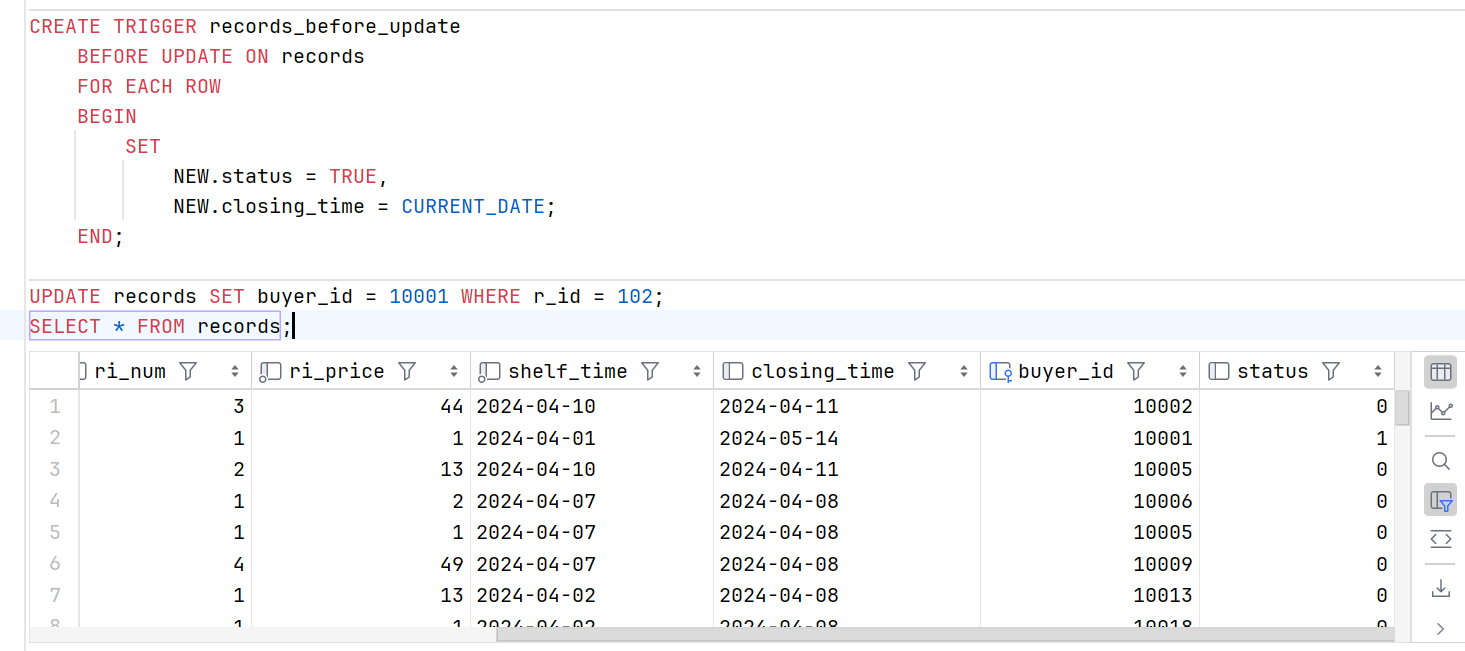
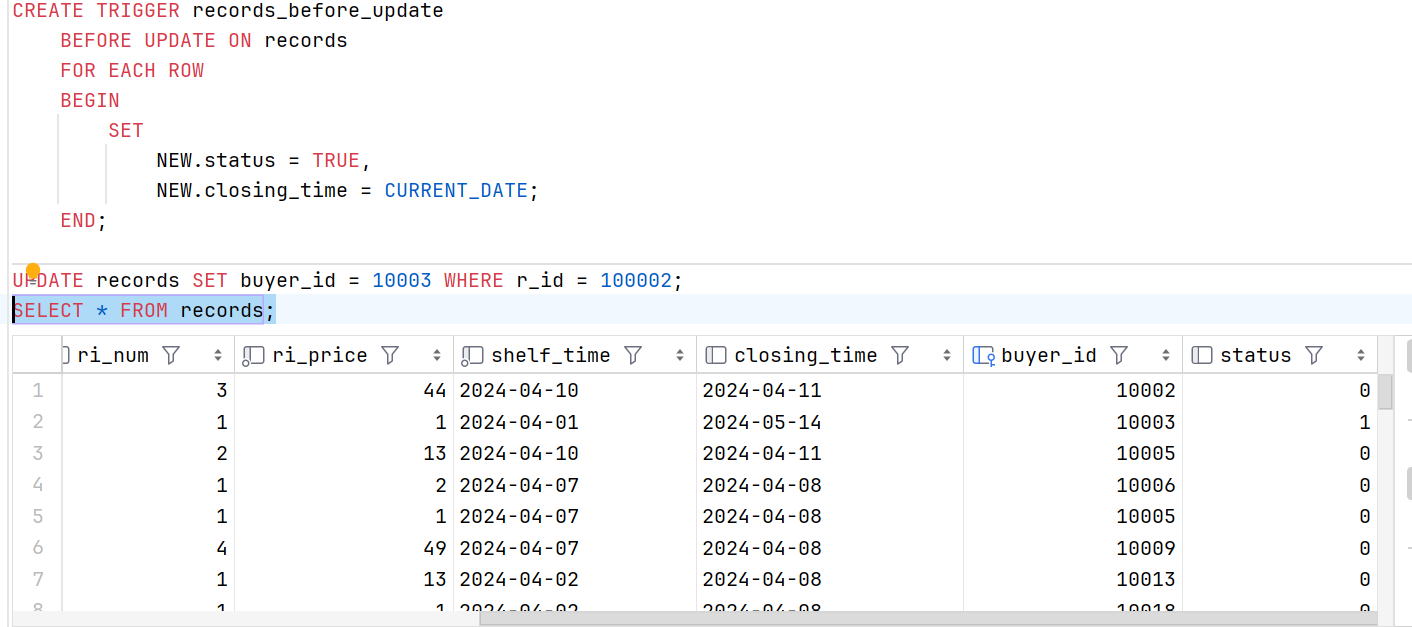
modified:   chapter4/4-2.md 	modified:   chapter4/4-3.md 	modified:   chapter4/img/4-3-2.png 	new file:   chapter4/img/4-3-3.png

diff --git a/chapter4/4-3.md b/chapter4/4-3.md
@@ -86,20 +86,36 @@
                 NEW.closing_time = CURRENT_DATE;
         END;
 
-    UPDATE records SET buyer_id = 10001 WHERE r_id = 102;
+    UPDATE records SET buyer_id = 10003 WHERE r_id = 100002;
     SELECT * FROM records;
 ```
 
 ![](./img/4-3-2.png)
 
+可以看到，在更新数据后，触发器自动将 status 列的值设置为 1，同时将 closing_time 列的值设置为当前日期。
+
 上面展示的两个触发器都是对自身表进行操作，下面将在 players 表中定义 DELETE 触发器来演示对 records 表的操作：
 
 ```sql
-    # 由于表中存在外键关系，所以
+    # 由于表中存在外键关系，所以需要先删除外键关系，再进行操作
+    ALTER TABLE records DROP FOREIGN KEY buyers_id;
+    ALTER TABLE records DROP FOREIGN KEY sellers_id;
+    ALTER TABLE records DROP KEY buyers_id;
+    ALTER TABLE records DROP KEY sellers_id;
     CREATE TRIGGER records_before_delete
         BEFORE DELETE ON players
         FOR EACH ROW
         BEGIN
-            DELETE FROM records WHERE seller_id = OLD.p_id AND buyer_id = OLD.p_id;
+            DELETE FROM records WHERE seller_id = OLD.p_id || buyer_id = OLD.p_id;
         END;
+    DELETE FROM players WHERE p_id = 10001;
+    SELECT * FROM records;
 ```
+
+![ ](./img/4-3-3.png)
+
+可以看到，删除了 id 为 10001 的玩家后，records 表中的数据也相应被删除了。
+
+### 查看触发器
+
+### 删除触发器

diff --git a/chapter4/4-2.md b/chapter4/4-2.md
@@ -390,9 +390,10 @@ game 的原始代码可以参见[第三章](../chapter3/README.md), 现在我们
         closing_time DATE,
         buyer_id     INT     NULL,
         PRIMARY KEY (r_id),
-        FOREIGN KEY sellers_id (seller_id) REFERENCES players (p_id) ON DELETE CASCADE,
-        FOREIGN KEY buyers_id (buyer_id) REFERENCES players (p_id) ON DELETE CASCADE,
-        FOREIGN KEY items_id (ri_id) REFERENCES items (i_id) ON DELETE CASCADE
+        CONSTRAINT sellers_id FOREIGN KEY sellers_id (seller_id) REFERENCES players (p_id) ON DELETE CASCADE,
+        CONSTRAINT buyers_id FOREIGN KEY buyers_id (buyer_id) REFERENCES players (p_id) ON DELETE CASCADE,
+        CONSTRAINT items_id FOREIGN KEY items_id (ri_id) REFERENCES items (i_id) ON DELETE CASCADE,
+        CONSTRAINT CHECK(seller_id != buyer_id)
     ) AUTO_INCREMENT = 100001;
 
     CREATE TABLE market
@@ -400,7 +401,7 @@ game 的原始代码可以参见[第三章](../chapter3/README.md), 现在我们
         mi_id    INT AUTO_INCREMENT,
         mi_price INT NOT NULL,
         PRIMARY KEY (mi_id),
-        FOREIGN KEY items_id (mi_id) REFERENCES items (i_id) ON DELETE CASCADE
+        CONSTRAINT market_items_id FOREIGN KEY market_items_id (mi_id) REFERENCES items (i_id) ON DELETE CASCADE
     ) AUTO_INCREMENT = 1001;
 
     INSERT INTO players (p_name, p_gender, registration_time, warehouse_id, p_grade)
